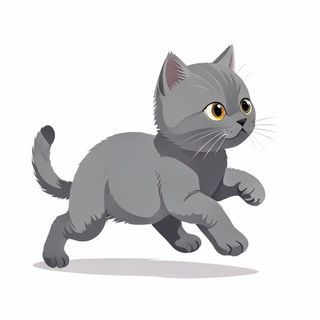
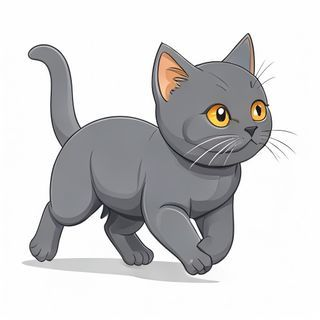
Use one consistent cat per character + match art touch
The 4-frame AI run cycle looked like different cats every frame: free
text-to-image drifts the character identity on every generation, so separate
frames can't stay on-model. Reverted to a single consistent illustration per
character (identity is rock-solid because it's one image) and kept the
procedural run/jump/land motion (restored to the stronger bounce/rock/squash
since the frames no longer carry leg motion).

Also unified the two characters' art touch: regenerated koko and naru with one
shared style spec (flat cartoon vector, bold clean outline, soft cel shading,
big eyes), so they now read as the same illustrator. Both picked with a single
clean tail (earlier versions had AI two-tail / forked-tip artifacts).

- koko.jpg: gray kitten, side view facing right, clean single tail
- naru.jpg: orange & white tabby, sitting, gold bell, clean single tail
- Removed koko_run0..3 / koko_jump (no longer used); Assets/_sprite simplified.

Changed region(s): [[0.0625, 0.0938, 0.9062, 0.9062], [0.4375, 0.5, 0.4688, 0.5312]]

diff --git a/files/pixel_quest_prototype.html b/files/pixel_quest_prototype.html
@@ -763,23 +763,13 @@ const Sprites = {
  *   - 読み込み前・失敗時は sprite が null のまま → 描画側は手描きにフォールバック。
  * ========================================================= */
 const Assets = {
-  koko: null,        // タイトル用の1枚絵 { canvas, w, h }
-  naru: null,        // タイトル用の1枚絵
-  kokoRun: [],       // ゲーム内・走りサイクル4コマ（脚の位相違い）
-  kokoJump: null,    // ゲーム内・跳躍ポーズ
+  koko: null,  // ここちゃん（プレイヤー＆タイトル）の1枚絵 { canvas, w, h }
+  naru: null,  // なるちゃん（タイトル）の1枚絵
 
   load(onSprite) {
     this._loadCutout('koko.jpg', s => { this.koko = s; onSprite && onSprite('koko', s); });
     this._loadCutout('naru.jpg', s => { this.naru = s; onSprite && onSprite('naru', s); });
-    // 走りサイクル（順番＝脚の位相。読み込み完了順に依らずindexへ格納）
-    ['koko_run0.jpg','koko_run1.jpg','koko_run2.jpg','koko_run3.jpg'].forEach((f, i) => {
-      this._loadCutout(f, s => { this.kokoRun[i] = s; });
-    });
-    this._loadCutout('koko_jump.jpg', s => { this.kokoJump = s; });
   },
-
-  // 走りサイクルが4コマ揃ったか
-  runReady() { return this.kokoRun.length === 4 && this.kokoRun.every(Boolean); },
 
   _loadCutout(url, cb) {
     const img = new Image();
@@ -1022,8 +1012,6 @@ const CharRenderer = {
   FEET: 22,
   // スプライト表示の高さ(px)。当たり判定(h=50)より少し大きめで存在感を出す
   DISP_H: 62,
-  // 走りサイクルのコマ切替速度（1秒あたりの切替回数）。/4 が1サイクル
-  RUN_FPS: 12,
 
   draw(ctx, player, groundY) {
     const cx = player.x + player.w / 2;
@@ -1049,7 +1037,7 @@ const CharRenderer = {
     ctx.rotate(M.rot);
     ctx.scale(1 / M.st, M.st);   // 体積保存（縦に伸びたら横は縮む）
 
-    const spr = this._sprite(player, grounded);
+    const spr = this._sprite();
     if (spr) {
       const dh = this.DISP_H * (player.sliding ? 0.9 : 1);
       const dw = dh * spr.w / spr.h;
@@ -1069,22 +1057,15 @@ const CharRenderer = {
     ctx.restore();
   },
 
-  // 描画するスプライトを状態から選ぶ。
-  //   空中（ジャンプ/落下）: 跳躍ポーズ kokoJump
-  //   接地して走行: 走りサイクル4コマを RUN_FPS で切替（脚が交互に動く）
-  //   それ以外（スライド・未ロード）: タイトル用1枚絵 koko にフォールバック
-  //   いずれも無ければ null（呼び出し側が手描きにフォールバック）
-  _sprite(player, grounded) {
-    if (!player.grounded && !player.sliding && Assets.kokoJump) return Assets.kokoJump;
-    if (grounded && !player.sliding && Assets.runReady()) {
-      const f = Math.floor(player.animTime * this.RUN_FPS) % 4;
-      return Assets.kokoRun[f];
-    }
+  // 描画するスプライトを返す。ここちゃんは「同一キャラに見せる」ことを優先し、
+  // 全状態で1枚の一貫した絵(Assets.koko)を使う。動きは _motion の変形で表現する。
+  // （AIの複数コマ生成はキャラがドリフトして別猫に見えるため不採用）
+  _sprite() {
     return Assets.koko;
   },
 
-  // 状態に応じた {bob, rot, st} を返す。走りサイクルのコマが脚の動きを担うので、
-  // 走行時の bob/rot/st は控えめ（コマ送りとの二重バウンドを避ける）。
+  // 状態に応じた {bob, rot, st} を返す。1枚絵を変形して躍動感を出す。
+  //   走行: 跳ねる(bob)＋前後ロック(rot)＋上で伸び接地で縮む(st)＝ギャロップ感
   //   空中: 落下速度で前傾/後傾(rot)＋縦伸び(st)。上昇=前のめり、落下=反る
   //   スライド: 前傾して低く潰れる
   //   着地(land): 一瞬ぺちゃっと潰れる（全状態に重畳）
@@ -1097,9 +1078,9 @@ const CharRenderer = {
     } else if (grounded) {
       const c = player.animTime * 14;
       const hop = Math.abs(Math.sin(c));
-      bob = -hop * 3;                           // コマ送りがあるので控えめ
-      rot = Math.sin(c) * 0.06;
-      st  = 1 + (hop - 0.4) * 0.08;
+      bob = -hop * 5;                           // 体が浮く
+      rot = Math.sin(c) * 0.12;                 // 前後に揺れる
+      st  = 1 + (hop - 0.4) * 0.14;             // 浮きで伸び・接地で縮む
     } else {
       rot = clamp(-player.vy * 0.013, -0.26, 0.22);
       st  = 1 + Math.min(0.24, Math.abs(player.vy) * 0.012);
